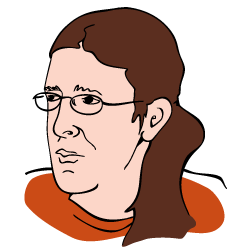
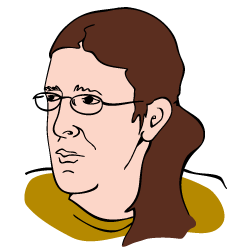
Add Emmanuelle pic

Changed region(s): [[0.084, 0.672, 0.532, 0.98], [0.7, 0.7, 0.896, 0.952]]

diff --git a/templates/landing.html b/templates/landing.html
@@ -93,6 +93,16 @@
 
   {# Team ------------------------------------- #}
   <section class="team">
+
+    <article id="emmanuelle" class="vcard dev">
+      <h3 class="fn">Emmanuelle Deaton</h3>
+      <p class="bio">
+        Emmanuelle is a veteran teacher with eight years in the classroom.
+        She spends her time preparing students for success
+        and saying things like,&nbsp;"Tres Bonne!"
+      </p>
+    </article>
+
     <article id="harsh" class="vcard dev">
       <h3 class="fn">Harsh Patel</h3>
       <p class="bio">
@@ -100,15 +110,6 @@
         creative, confident, and productive.
         His fridge is always stocked with hummus
         and he will drop anything for a good game of&nbsp;frisbee.
-      </p>
-    </article>
-
-    <article id="carl" class="vcard dev">
-      <h3 class="fn">Carl Meyer</h3>
-      <p class="bio">
-        Carl is a coder, Pythonista, and Django core developer.
-        When he’s not chasing a more elegant algorithm,
-        he chases frisbees, hockey pucks, and a five-year-old&nbsp;son.
       </p>
     </article>
 
@@ -122,12 +123,12 @@
       </p>
     </article>
 
-    <article id="emmanuelle" class="vcard dev">
-      <h3 class="fn">Emmanuelle Deaton</h3>
+    <article id="carl" class="vcard dev">
+      <h3 class="fn">Carl Meyer</h3>
       <p class="bio">
-        Emmanuelle is a veteran teacher with eight years in the classroom.
-        She spends her time preparing students for success
-        and saying things like,&nbsp;"Tres Bonne!"
+        Carl is a coder, Pythonista, and Django core developer.
+        When he’s not chasing a more elegant algorithm,
+        he chases frisbees, hockey pucks, and a five-year-old&nbsp;son.
       </p>
     </article>
 

diff --git a/static/css/screen.css b/static/css/screen.css
@@ -2398,6 +2398,10 @@ button {
   }
 }
 
+#emmanuelle:before {
+  background-image: url('../images/landing/emmanuelle.png?1380913111');
+}
+
 #peter:before {
   background-image: url('../images/landing/peter.png?1351725897');
 }

diff --git a/sass/modules/landing/_team.scss b/sass/modules/landing/_team.scss
@@ -46,5 +46,5 @@
   }
 }
 
-$names: peter carl eric jonny;
+$names: emmanuelle peter carl eric jonny;
 @each $name in $names { ##{$name}:before { background-image: image-url('landing/#{$name}.png'); } }
